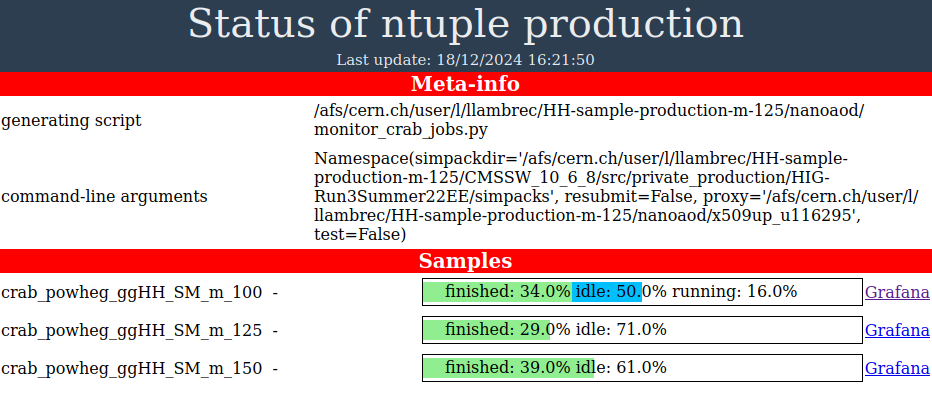
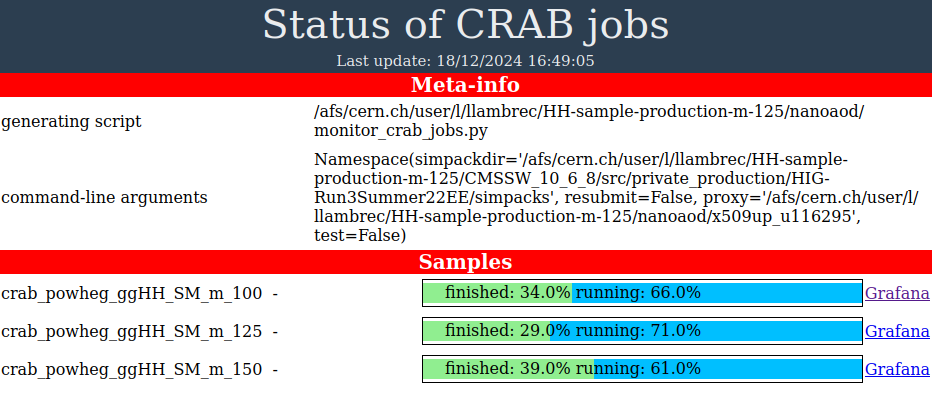
fix typo

diff --git a/nanoaod/monitor_crab_jobs.py b/nanoaod/monitor_crab_jobs.py
@@ -131,7 +131,7 @@ def web( data, webpath, force=False ):
     page += '<body>\n'
     page += '<table style="background-color:#2C3E50;color:#EAECEE;'
     page += 'font-size:40px;width:100%;text-align: center;">'
-    page += '<tr><td>Status of ntuple production</td></tr>'
+    page += '<tr><td>Status of CRAB jobs</td></tr>'
     page += '<tr><td style="font-size:15px;">Last update: '+now.strftime("%d/%m/%Y %H:%M:%S")+'</td></tr>'
     page += '</table>\n'
 
